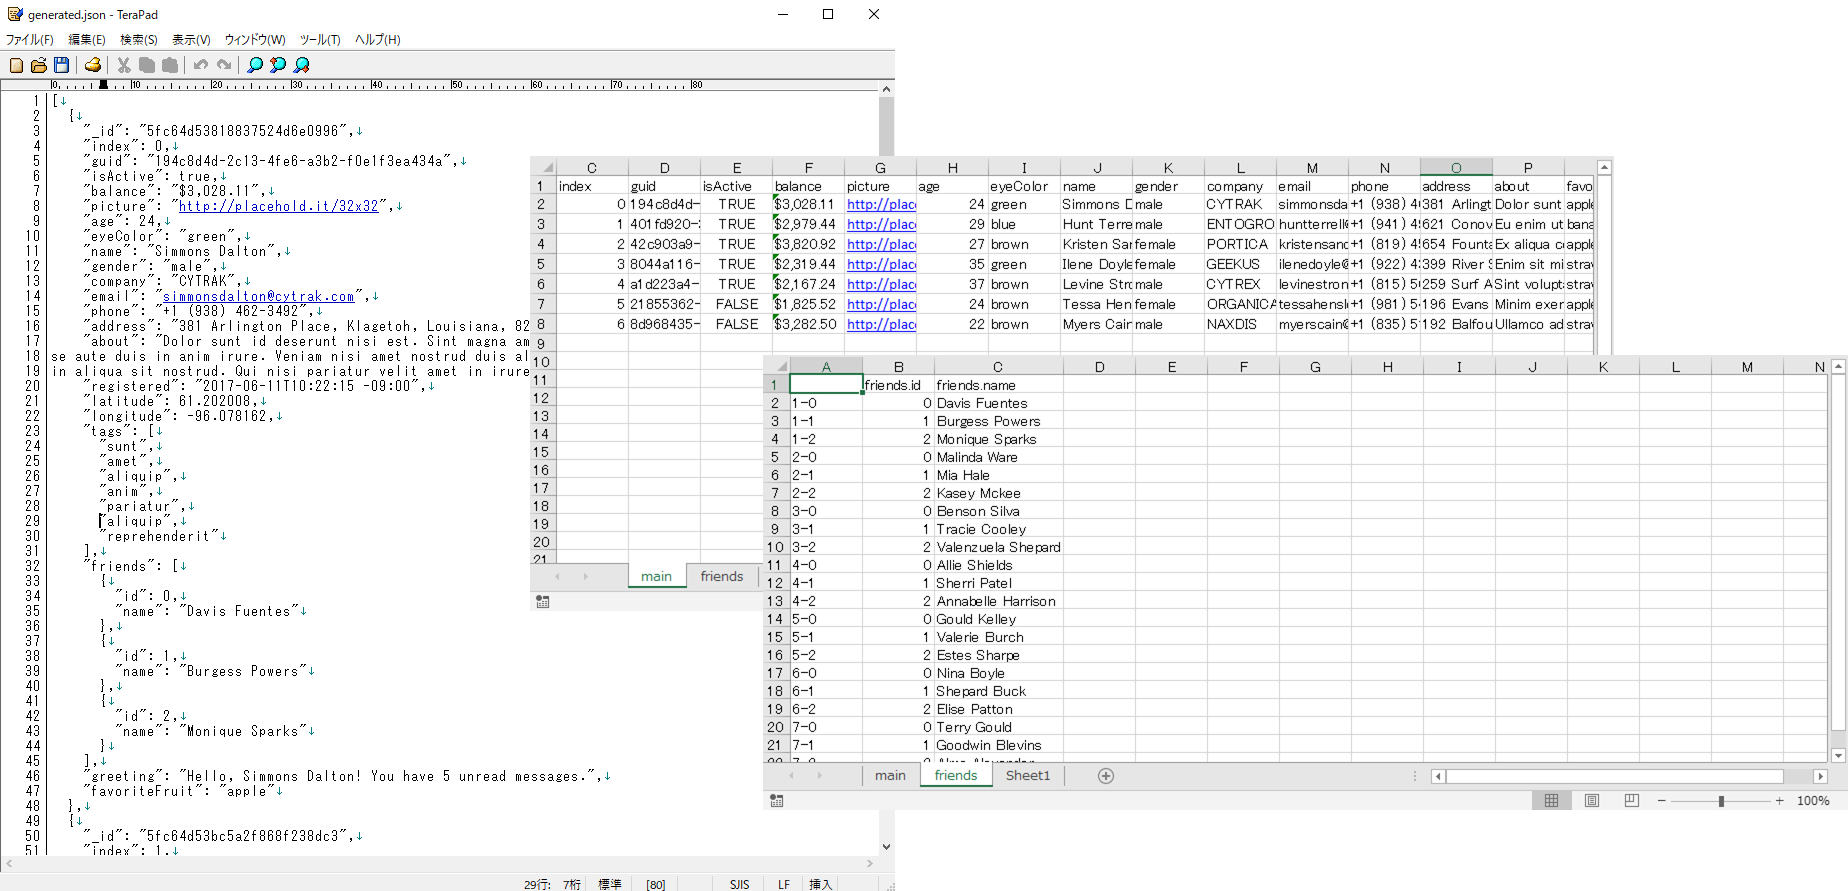
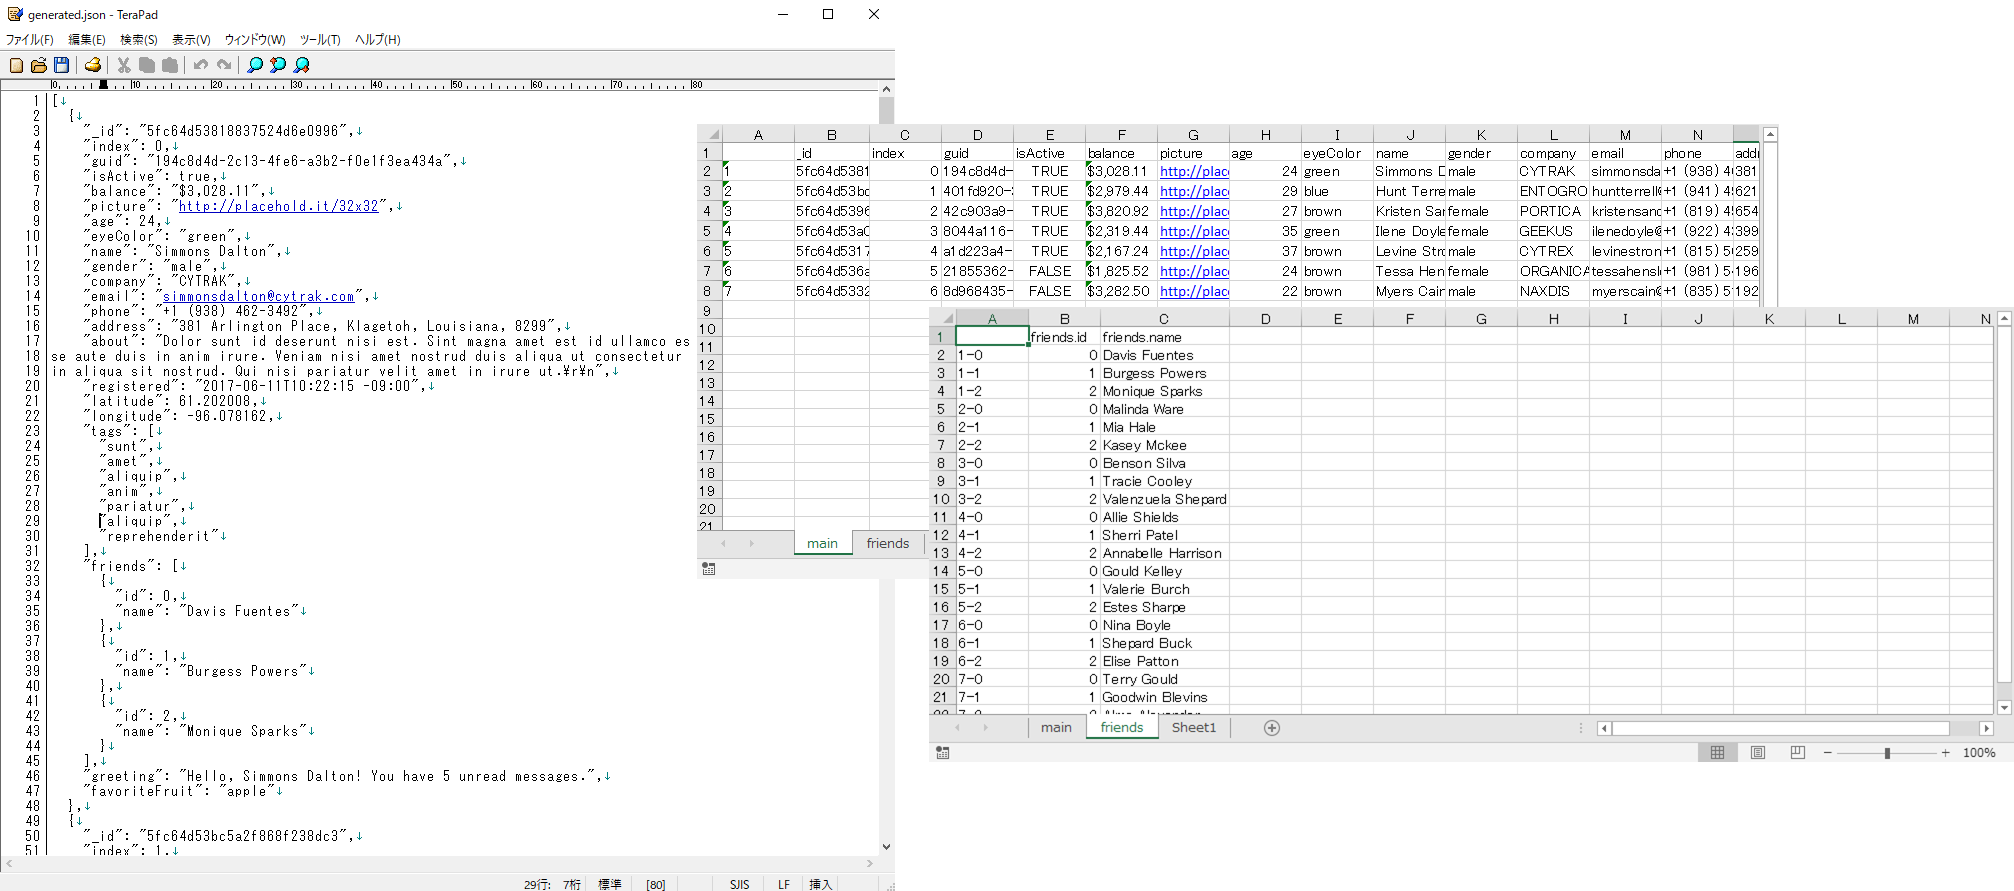
Change images

Changed region(s): [[0.0, 0.0, 1.0, 0.9697], [0.2776, 0.9697, 0.4627, 1.0], [0.0617, 0.7273, 0.1542, 0.7576]]

diff --git a/README.md b/README.md
@@ -4,7 +4,7 @@ Export JSON-format data to Excel like RDB or the exported data in Excel to JSON 
 
 
 
-![data](https://user-images.githubusercontent.com/48859041/100882111-24db1680-34f2-11eb-9fac-dc062ac61e55.png)
+![data](https://user-images.githubusercontent.com/48859041/100883734-04ac5700-34f4-11eb-9927-8f3a0a2e097c.png)
 
 
 # Requirements
